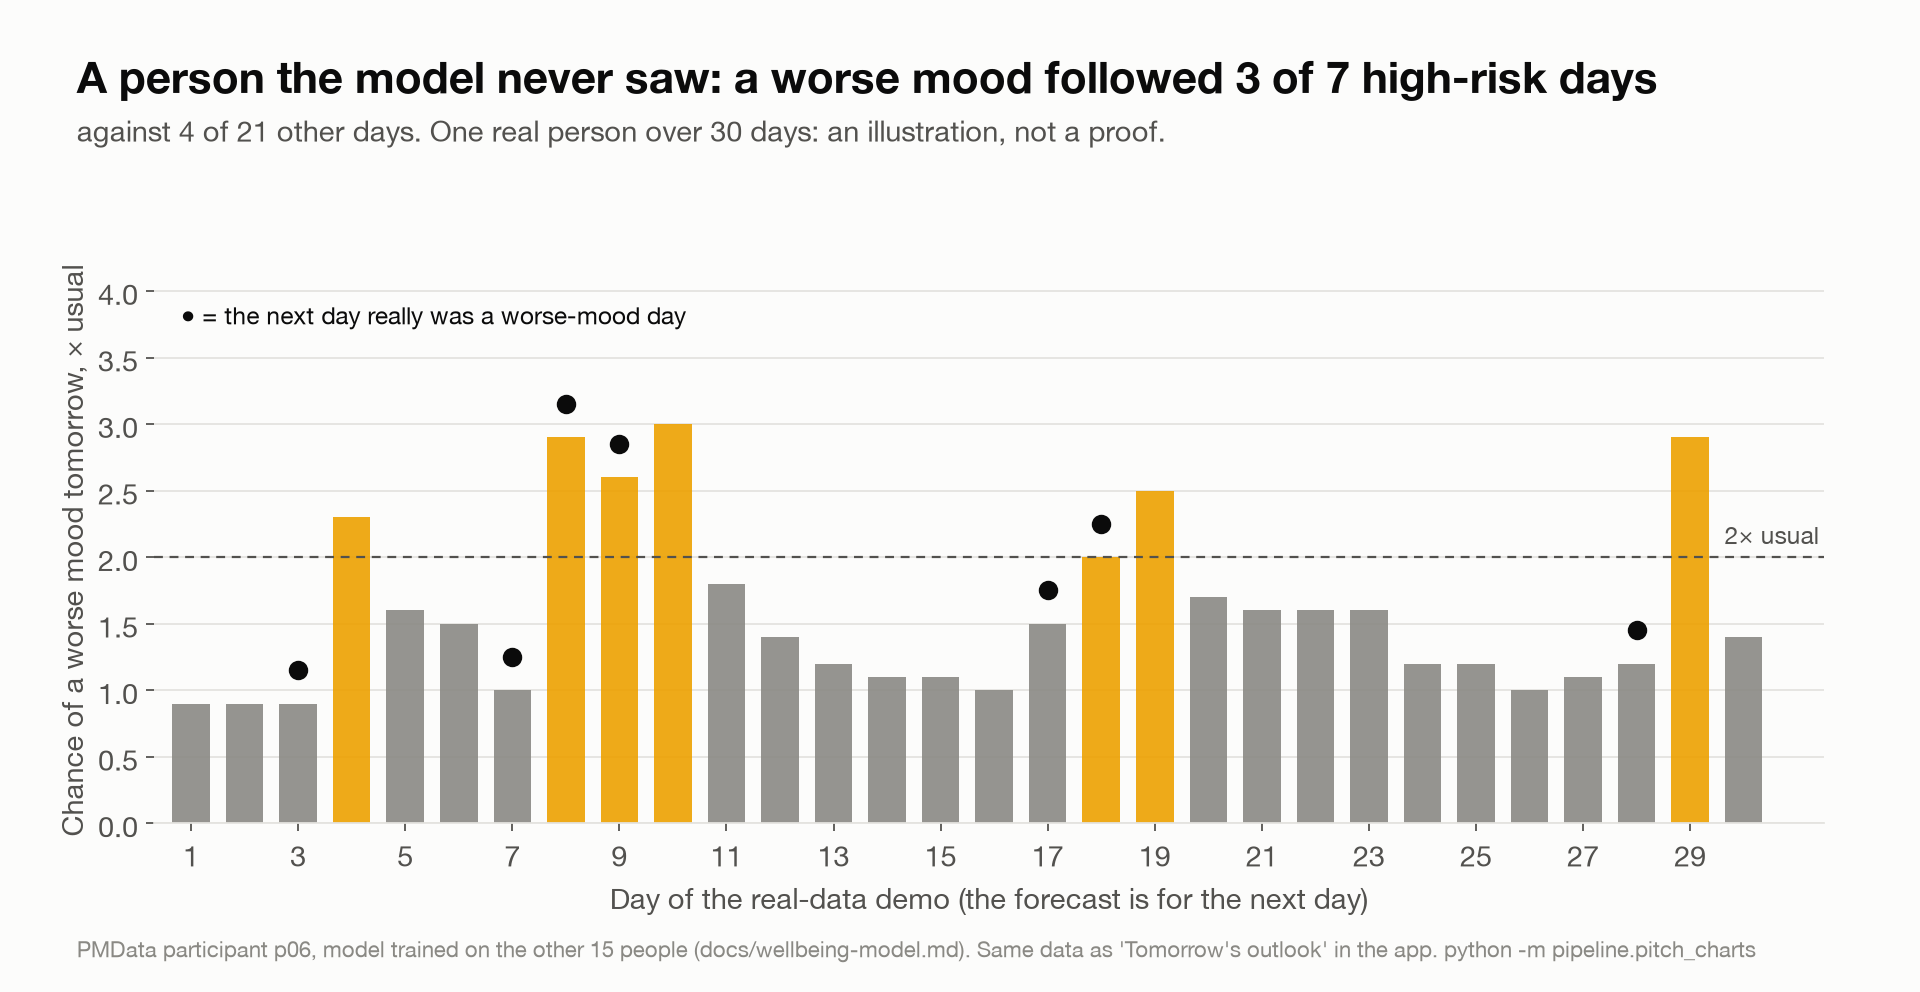
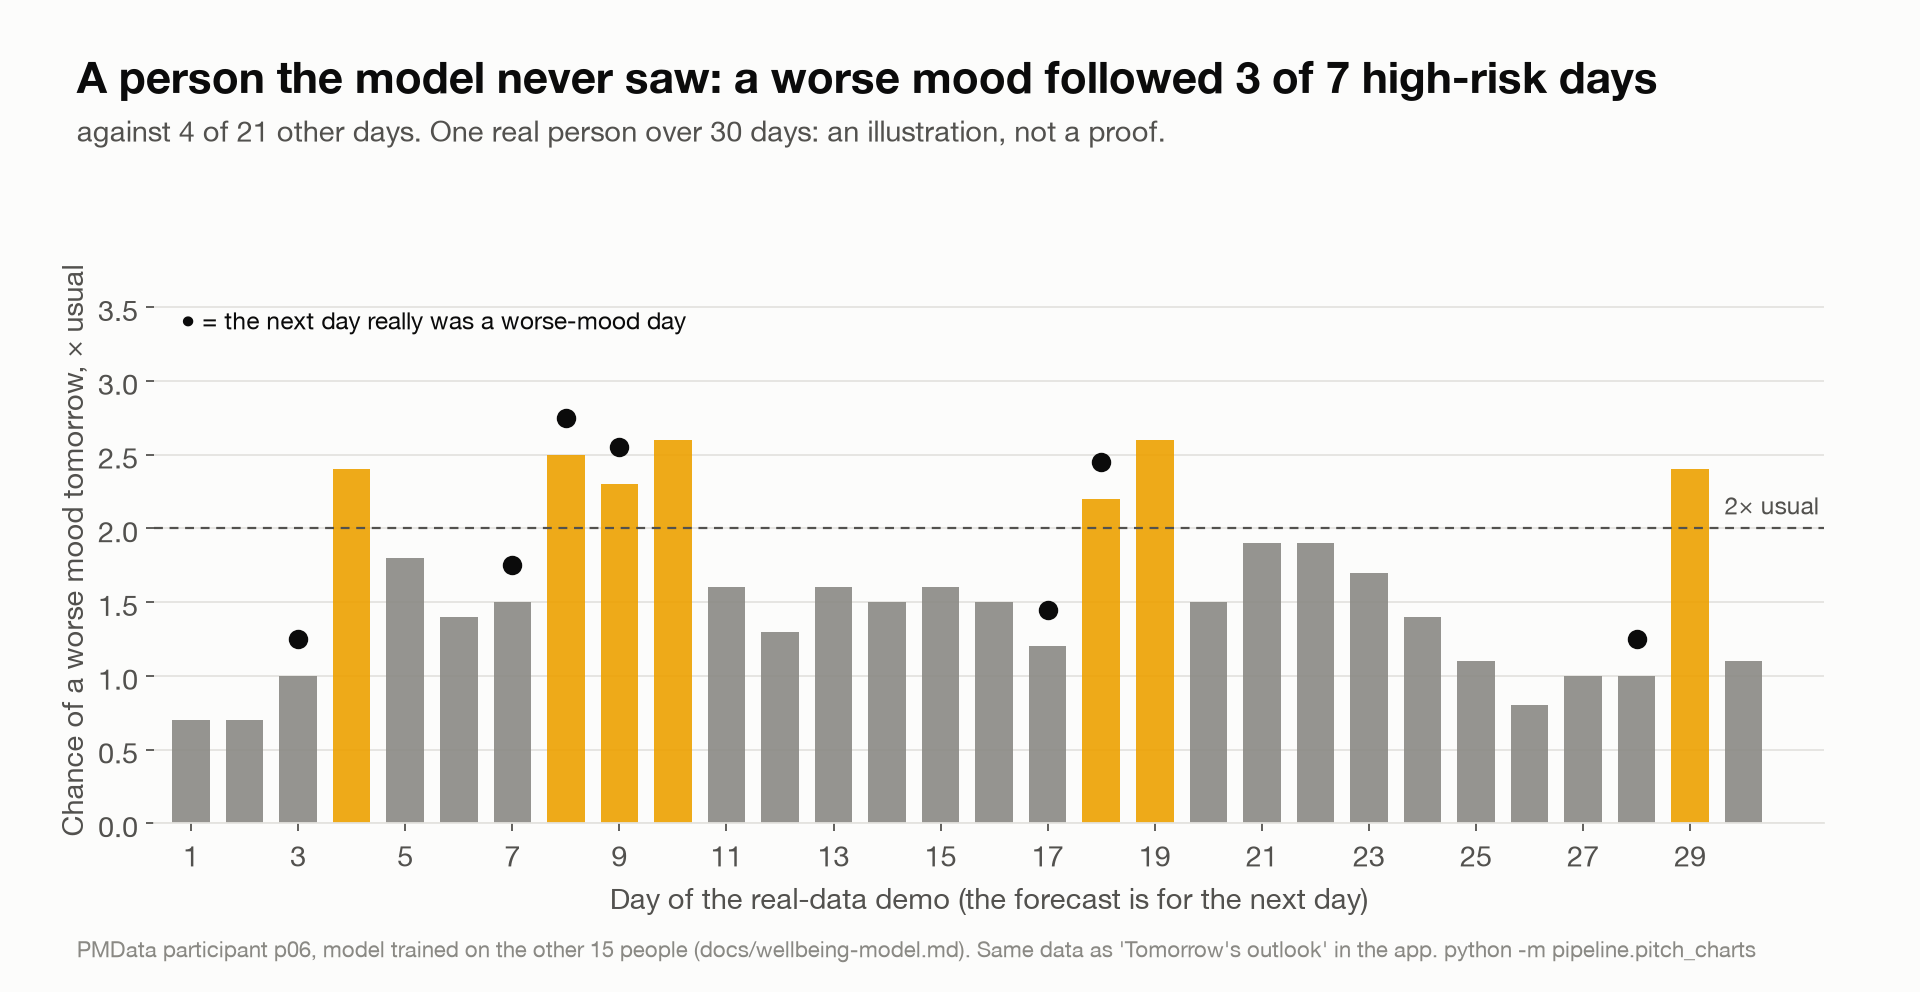
Pitch charts and summary regenerated after #7 (Bayesian norm in the models)
Mood forecast 0.68 -> 0.70, John's day-16 alert 20x -> 22x usual,
false-alarm list updated. Branch also brought up to date with main.

diff --git a/docs/pitch/README.md b/docs/pitch/README.md
@@ -20,8 +20,8 @@ Trained and scored on real people only, each person scored by a model that never
 
 | Tomorrow | "Same as today" | Our forest | Gain, 95% interval |
 |---|---|---|---|
-| Lower mood | 0.61 | **0.68** | +0.04 .. +0.12 |
-| Less energy | 0.59 | **0.64** | +0.01 .. +0.12 |
+| Lower mood | 0.61 | **0.70** | +0.06 .. +0.13 |
+| Less energy | 0.59 | **0.65** | +0.01 .. +0.12 |
 | Readiness, LifeSnaps feelings | | no better | we show this too |
 
 AUC within a person (is tomorrow a bad day *for me?*), 0.5 = guessing. Even after paying for every variant we
@@ -29,9 +29,8 @@ tried (nested check) the gain holds: mood 0.67, energy 0.64. In the app: "Tomorr
 demo, for a person the model never saw, with the reasons (`docs/wellbeing-model.md`).
 
 **3. Early warning before symptoms** (`3-early-warning-before-fever.png`, simulated mission).
-The risk model flags John's infection on day 16, at 20× the usual risk, 2 days before the fever, while his pulse
-and temperature are still inside the safe limits. It also gives false alarms (Maria day 16, Kenji day 17, Stefan
-days 26-27), which is why a prediction only asks the CMO to confirm and never moves a task by itself
+The risk model flags John's infection on day 16, at 22× the usual risk, 2 days before the fever, while his pulse
+and temperature are still inside the safe limits. It also gives false alarms (Maria day 16, Stefan days 26-27), which is why a prediction only asks the CMO to confirm and never moves a task by itself
 (`docs/simulation.md`).
 
 ## All charts (pick for the slides)
@@ -73,7 +72,7 @@ real astronauts; chart 7 is one person and should not be shown as proof.
 
 - *Why not astronaut data?* It is not public (NASA LSDA, access by request). The pipeline retrains on it without
   changing the app.
-- *Is 0.68 good?* It is modest, and it is honest: measured on people the model never saw, against the strongest
+- *Is 0.70 good?* It is modest, and it is honest: measured on people the model never saw, against the strongest
   simple rule. Models that report 0.9 on 16 people usually leak.
 - *Why random forest?* Same accuracy as boosting on simulation, more stable on real people, exact SHAP
   explanations (`docs/model-comparison.md`).
